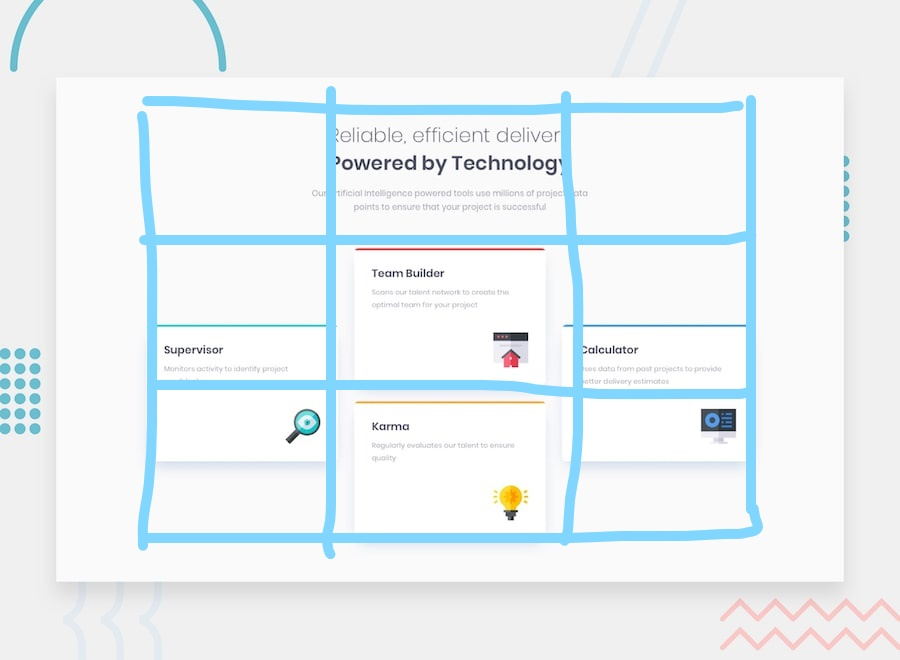
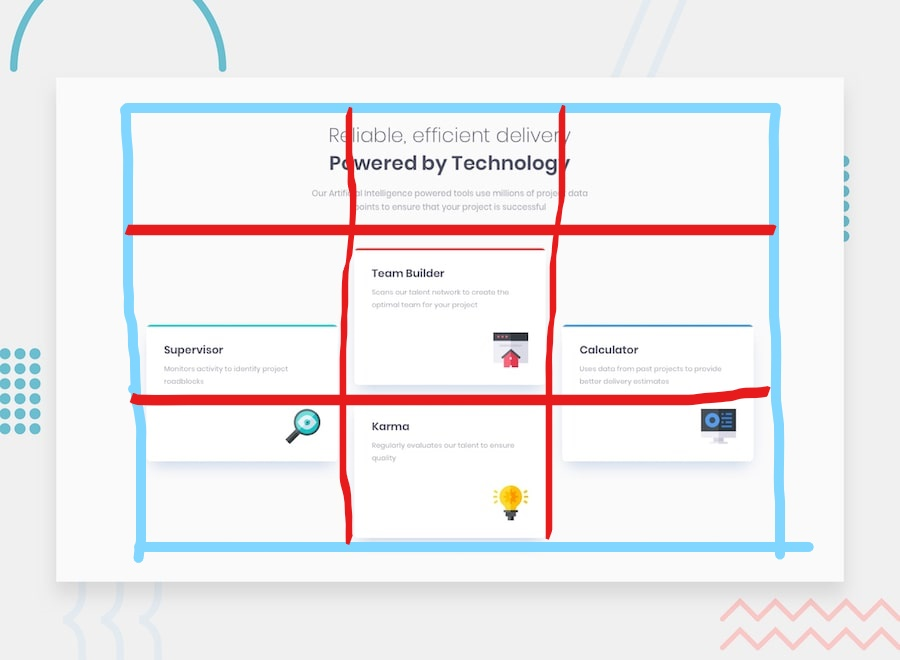
Retirada do position relativa e substituição pelo align-self center.

Changed region(s): [[0.1244, 0.1212, 0.9022, 0.8485]]

diff --git a/styles.css b/styles.css
@@ -126,8 +126,8 @@ footer{
 
     .content.supervisor{
         grid-column: 1;
-        grid-row: 2;
-        position: relative;
+        grid-row: 2 / 4;
+        align-self: center;
         padding-top: 1.6rem;
         height: 245px;
         top: 142px;
@@ -143,8 +143,8 @@ footer{
 
     .content.calculator{
         grid-column: 3;
-        grid-row: 2;
-        position: relative;
+        grid-row: 2 / 4;
+        align-self: center;
         top: 142px;
         right: 8px;
     }
